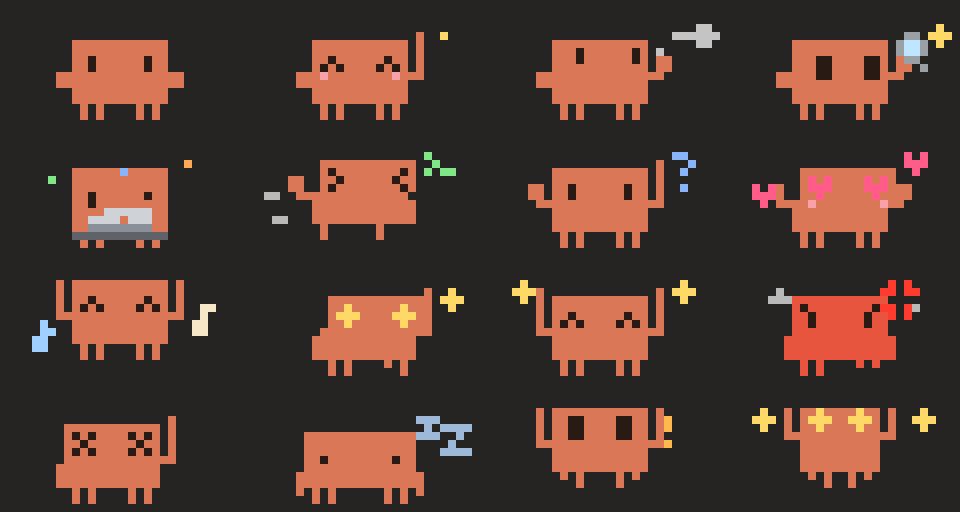
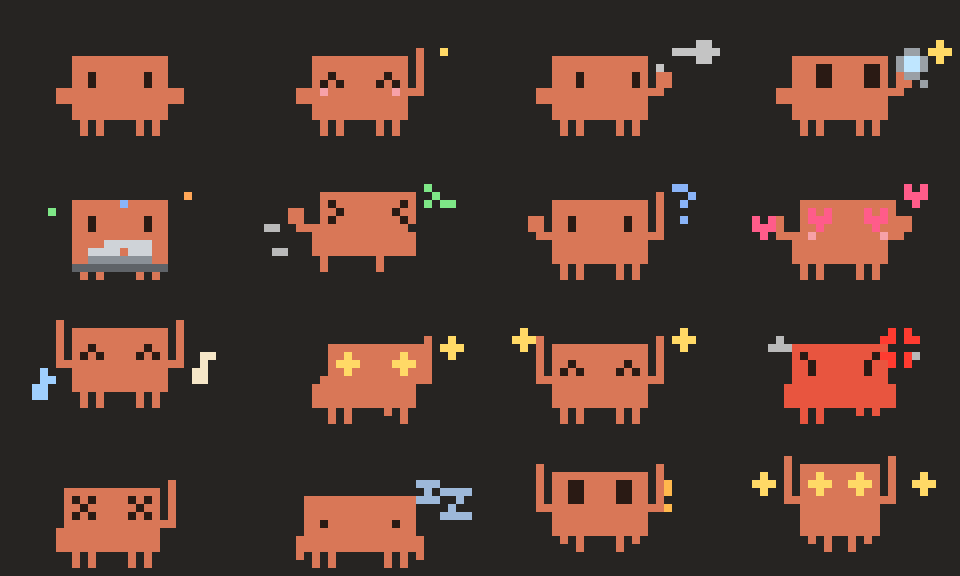
Calmer, uncut Clawd
- Tiny size lines its quarter-blocks up with the logo (head, tummy, legs)
  and keeps the body on whole cells; one row of headroom so hops, raised
  arms and props are no longer cut off at the top (small gets the same).
- Notepad is held beside Clawd instead of over its eyes; eyes stay level.
- Much less walking: thinking strolls a few steps after long pauses, and
  idle wanders are rarer and shorter.

diff --git a/plugin/hooks/clawd.ts b/plugin/hooks/clawd.ts
@@ -46,10 +46,10 @@ export const PALETTE = {
 /** The body colours: a quarter-block cell lets anything else win over them. */
 const SKIN = new Set<Color>([PALETTE.body, PALETTE.back, PALETTE.angry])
 
-/** Rows of the stage in base pixels: 2 of headroom, 8 of body, 2 of legs. */
-export const STAGE_H = 12
-/** Body top while standing. Even, so quarter-blocks split the body like the logo. */
-const TOP = 2
+/** Rows of the stage in base pixels: 4 of headroom (hops, raised arms, props), 8 of body, 2 of legs. */
+export const STAGE_H = 14
+/** Body top while standing. A multiple of 4, so quarter-blocks split the body like the logo. */
+const TOP = 4
 export const FPS = 10
 
 // ---------------------------------------------------------------- canvas
@@ -289,14 +289,12 @@ function drawLaptop(cv: Canvas, X: number, top: number, typing: 0 | 1): void {
 }
 
 function drawNotepad(cv: Canvas, X: number, top: number, pen: 0 | 1 | 2): void {
-  // a little pad held low on the right, ruled, with a pencil scribbling across
-  cv.rect(X + 7, top + 4, 5, 4, PALETTE.paper)
-  cv.rect(X + 8, top + 5, 3, 1, PALETTE.ink)
-  cv.rect(X + 8, top + 7, 2, 1, PALETTE.ink)
-  cv.rect(X + 12, top + 4, 1, 2, PALETTE.body) // the paw holding it
-  cv.set(X + 7 + pen, top + 3, PALETTE.pencil)
-  cv.set(X + 8 + pen, top + 2, PALETTE.pencil)
-  cv.set(X + 7 + pen, top + 4 + (pen % 2), PALETTE.eye) // the tip
+  // a little ruled pad held out in the right paw, a pencil scribbling on it
+  cv.rect(X + 14, top + 4, 4, 4, PALETTE.paper)
+  cv.rect(X + 15, top + 5, 2, 1, PALETTE.ink)
+  cv.rect(X + 15, top + 7, 2, 1, PALETTE.ink)
+  cv.set(X + 14 + pen, top + 3, PALETTE.pencil)
+  cv.set(X + 15 + pen, top + 2, PALETTE.pencil)
 }
 
 // ---------------------------------------------------------------- clips
@@ -414,8 +412,8 @@ export const CLIPS = {
     {
       name: 'scribble', len: 40, weight: 3,
       frame: (f, seed) => pose({
-        notepad: cyc(Math.floor(f / 2), [0, 1, 2, 1] as const), armR: 'hidden',
-        eyes: blinks(f, seed, 40) ? 'blink' : 'open', lookX: 1, lookY: 1,
+        notepad: cyc(Math.floor(f / 2), [0, 1, 2, 1] as const),
+        eyes: blinks(f, seed, 40) ? 'blink' : 'open', lookX: 1,
         dy: f % 20 === 10 ? 1 : 0,
       }),
     },
@@ -424,8 +422,8 @@ export const CLIPS = {
       frame: f => {
         const look = f < 20
         return pose({
-          notepad: look ? 0 : cyc(Math.floor(f / 2), [0, 1, 2, 1] as const), armR: 'hidden',
-          eyes: f === 8 || f === 30 ? 'blink' : 'open', lookX: look ? -1 : 1, lookY: 1,
+          notepad: look ? 0 : cyc(Math.floor(f / 2), [0, 1, 2, 1] as const),
+          eyes: f === 8 || f === 30 ? 'blink' : 'open', lookX: look ? -1 : 1,
           props: look && f > 4 ? [{ s: SPRITES.thinkS, x: -2, y: 1 }] : [],
         })
       },
@@ -433,7 +431,7 @@ export const CLIPS = {
     {
       name: 'nod', len: 30, weight: 1,
       frame: f => pose({
-        notepad: 1, armR: 'hidden', lookY: 1,
+        notepad: 1,
         dy: cyc(Math.floor(f / 3), [0, 1, 0, 0, 0]), eyes: f >= 20 ? 'happy' : 'open',
       }),
     },
@@ -476,13 +474,13 @@ export const CLIPS = {
         if (f >= 4) dots.push({ s: SPRITES.thinkS, x: 13, y: 1 })
         if (f >= 10) dots.push({ s: SPRITES.thinkM, x: 15, y: -1 })
         if (f >= 16) dots.push({ s: SPRITES.thinkL, x: 17, y: -2 })
-        return pose({ eyes: f === 26 ? 'blink' : 'open', lookX: 1, lookY: -1, armR: 'up', props: dots })
+        return pose({ eyes: f === 26 ? 'blink' : 'open', lookX: 1, armR: 'up', props: dots })
       },
     },
     {
       name: 'hmm', len: 30, weight: 1,
       frame: f => pose({
-        eyes: f < 15 ? 'open' : 'closed', lookX: -1, lookY: -1, lean: cyc(Math.floor(f / 5), [0, -1, 0, 1]),
+        eyes: f < 15 ? 'open' : 'closed', lookX: -1, lean: cyc(Math.floor(f / 5), [0, -1, 0, 1]),
         props: f >= 6 ? [{ s: SPRITES.ask, x: 14, y: -2 + (f % 10 < 5 ? 0 : 1) }] : [],
       }),
     },
@@ -491,7 +489,7 @@ export const CLIPS = {
       frame: f => {
         const lit = f >= 12
         return pose({
-          eyes: lit ? 'star' : 'open', lookY: lit ? 0 : -1, dy: f === 12 || f === 13 ? -1 : 0,
+          eyes: lit ? 'star' : 'open', dy: f === 12 || f === 13 ? -1 : 0,
           armR: lit ? 'high' : 'up',
           props: lit ? [{ s: SPRITES.spark, x: 15, y: -2 + (f % 4 < 2 ? 0 : 1) }] : [{ s: SPRITES.thinkS, x: 13, y: 1 }],
         })
@@ -504,7 +502,7 @@ export const CLIPS = {
       frame: f => {
         const found = f >= 26
         return pose({
-          eyes: found ? 'wide' : 'open', lookX: found ? 1 : cyc(Math.floor(f / 4), [-1, 0, 1, 0]), lookY: 1,
+          eyes: found ? 'wide' : 'open', lookX: found ? 1 : cyc(Math.floor(f / 4), [-1, 0, 1, 0]),
           armR: 'up', props: [
             { s: SPRITES.magnifier, x: 13, y: -2 + (f % 8 < 4 ? 0 : 1) },
             ...(found ? [{ s: SPRITES.spark, x: 17, y: -2 }] : []),
@@ -523,7 +521,7 @@ export const CLIPS = {
           const s = [SPRITES.code1, SPRITES.code2, SPRITES.code3][k]
           sparks.push({ s, x: [-3, 6, 14][k] + (t % 4 < 2 ? 0 : 1), y: 1 - Math.floor(t / 4) })
         }
-        return pose({ eyes: f === 20 ? 'blink' : 'open', lookY: 1, laptop: (f % 2) as 0 | 1, armL: 'hidden', armR: 'hidden', props: sparks })
+        return pose({ eyes: f === 20 ? 'blink' : 'open', laptop: (f % 2) as 0 | 1, armL: 'hidden', armR: 'hidden', props: sparks })
       },
     },
     {
@@ -810,7 +808,9 @@ export class Stage {
   /** Where an idle Clawd has wandered off to, how long it stays, when it next goes. */
   spot: number | null = null
   stayLeft = 0
-  wanderIn = FPS * 25
+  wanderIn = FPS * 60
+  /** Quarter-block drawing: keep the body on whole cells (no squash, hops in steps of two). */
+  even = false
   /** When an idle Clawd next breaks into a little dance for no reason. */
   danceIn = FPS * 40
 
@@ -887,7 +887,7 @@ export class Stage {
   private restart(): void {
     this.clip = pickClip(this.mood, this.rand())
     this.f = 0
-    this.pause = 0
+    this.pause = this.mood === 'thinking' ? FPS * 6 : 0
     this.held = 0
     this.target = null
   }
@@ -900,11 +900,10 @@ export class Stage {
         this.gait = 'walk'
       }
     } else if (Math.abs(this.pos - this.home) < 0.5 && this.pinned === null && --this.wanderIn <= 0) {
-      this.wanderIn = FPS * (20 + Math.floor(this.rand() * 30))
+      this.wanderIn = FPS * (60 + Math.floor(this.rand() * 60))
       const room = this.width - 16
       if (room > 30) {
-        let to = 2 + Math.floor(this.rand() * (room - 2))
-        if (Math.abs(to - this.home) < 14) to = Math.max(2, this.home - 14 - Math.floor(this.rand() * 10))
+        const to = Math.max(2, this.home - 10 - Math.floor(this.rand() * 16))
         this.spot = to
         this.stayLeft = FPS * (6 + Math.floor(this.rand() * 8))
         this.gait = this.rand() < 0.5 ? 'hop' : 'walk'
@@ -968,14 +967,14 @@ export class Stage {
         playClip()
       } else {
         if (this.target === null) {
-          const far = Math.max(2, this.home - Math.min(48, Math.floor(this.width * 0.45)))
+          const far = Math.max(2, this.home - 8 - Math.floor(this.rand() * 8))
           this.target = this.pos > (far + this.home) / 2 ? far : this.home
           this.gait = this.rand() < 0.3 ? 'hop' : 'walk'
         }
-        const thought = (f: number): Partial<Pose> => ({ lookY: -1, props: [{ s: SPRITES.thinkS, x: 13, y: 1 }, ...(f % 8 < 4 ? [] : [{ s: SPRITES.thinkM, x: 15, y: -1 }])] })
+        const thought = (f: number): Partial<Pose> => ({ props: [{ s: SPRITES.thinkS, x: 13, y: 1 }, ...(f % 8 < 4 ? [] : [{ s: SPRITES.thinkM, x: 15, y: -1 }])] })
         if (!travel(this.target, thought)) {
           this.target = null
-          this.pause = FPS * 3 + Math.floor(this.rand() * FPS * 3)
+          this.pause = FPS * 8 + Math.floor(this.rand() * FPS * 8)
           this.clip = pickClip('thinking', this.rand())
           this.f = 0
           playClip()
@@ -1004,6 +1003,7 @@ export class Stage {
       if (wasAwake && this.quiet > SLEEP_AFTER) this.restart()
     }
 
+    if (this.even) p = { ...p!, squash: 0, dy: 2 * Math.round(p!.dy / 2) }
     const cv = new Canvas(this.width, STAGE_H)
     drawClawd(cv, p!, this.pos)
     return cv
@@ -1072,9 +1072,15 @@ function squeeze(a: Color, b: Color): Color {
   return SKIN.has(a) ? b : a
 }
 
+/**
+ * Quarter-block rows are lined up with the body top, so the cells split Clawd
+ * where the logo does: head and eyes, arms and tummy, legs; one row above.
+ */
+const QUAD_Y0 = TOP - 4
+
 function quadCells(cv: Canvas): Cells {
   const columns = Math.ceil(cv.w / 2)
-  const rows = Math.ceil(cv.h / 4)
+  const rows = Math.ceil((cv.h - QUAD_Y0) / 4)
   const n = columns * rows
   const out: Cells = { columns, rows, ch: new Uint32Array(n), fg: new Uint32Array(n), bg: new Uint32Array(n) }
   const sub = [0, 0, 0, 0]
@@ -1082,7 +1088,7 @@ function quadCells(cv: Canvas): Cells {
     for (let c = 0; c < columns; c++) {
       for (let k = 0; k < 4; k++) {
         const x = c * 2 + (k & 1)
-        const y = r * 4 + (k >> 1) * 2
+        const y = QUAD_Y0 + r * 4 + (k >> 1) * 2
         sub[k] = squeeze(cv.get(x, y), cv.get(x, y + 1))
       }
       // the commonest colour is the glyph, the next the background

diff --git a/cli/dance.ts b/cli/dance.ts
@@ -18,6 +18,7 @@ if (only && !MOODS.includes(only)) {
 const out = process.stdout
 const width = () => Math.max(24, stageWidth(Math.min(out.columns ?? 80, 160), size))
 const stage = new Stage(width(), Date.now() & 0xffff)
+stage.even = encoding === 'quad'
 let index = only ? MOODS.indexOf(only) : 0
 let shownFor = 0
 const SHOW_EACH = FPS * 5

diff --git a/plugin/hooks/register.tsx b/plugin/hooks/register.tsx
@@ -223,6 +223,7 @@ export const register: Register = on => {
     if (e.surface === 'terminal') {
       const { Raster } = $.ui.resolve(e)
       const width = stageWidth(e.props.bodyColumns, s)
+      stage.even = SIZES[s].encoding === 'quad'
       if (width !== stage.width) {
         stage.resize(width)
         lastFrame = null

diff --git a/README.md b/README.md
@@ -29,7 +29,7 @@ Then start a new session. It costs **zero tokens**: nothing is added to Claude's
 ```
 /clawd                     show / hide
 /clawd dance               or happy, love, angry, sleep, code, notes, party, wave…
-/clawd tiny|small|big      3 rows (default), 6 rows, 12 rows
+/clawd tiny|small|big      4 rows (default), 7 rows, 14 rows
 /clawd left|center|right   where Clawd hangs out
 ```
 
